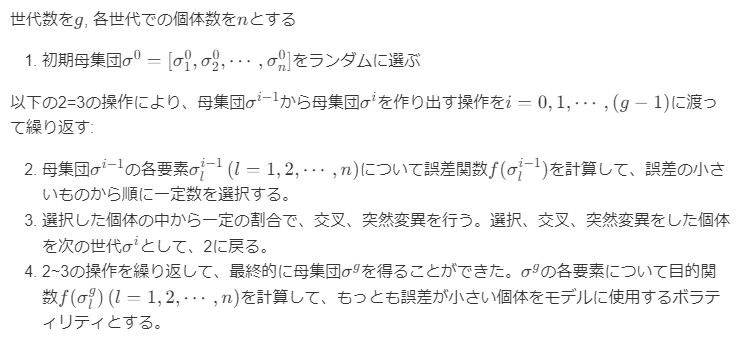
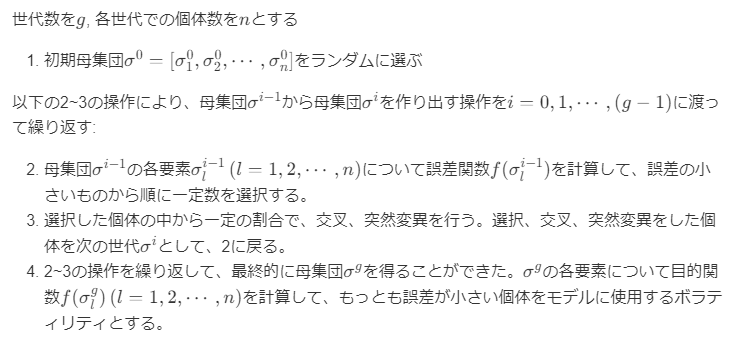
修正

diff --git a/genetic_algorithm.md b/genetic_algorithm.md
@@ -301,20 +301,17 @@ $$d_2 = d_1 - \sigma \sqrt{T}$$  -->
 次のアルゴリズムにより、モデルに使用するボラティリティを求めます
 
 ![](alg_introduction.png)
-<!-- 世代数を$g$, 各世代での個体数を$n$とする
+世代数を$g$, 各世代での個体数を$n$とする
 1. 初期母集団$\sigma^{0} = [\sigma_1^{0}, \sigma_2^{0}, \cdots, \sigma_n^{0}]$をランダムに選ぶ
    
-以下の2=3の操作により、母集団$\sigma^{i-1}$から母集団$\sigma^i$を作り出す操作を$i = 0, 1, \cdots, (g-1)$に渡って繰り返す:
+以下の2\~3の操作により、母集団$\sigma^{i-1}$から母集団$\sigma^i$を作り出す操作を$i = 0, 1, \cdots, (g-1)$に渡って繰り返す:
 
 2. 母集団$\sigma^{i-1}$の各要素$\sigma_l^{i-1}\,(l = 1,2,\cdots, n)$について誤差関数$f(\sigma_l^{i-1})$を計算して、誤差の小さいものから順に一定数を選択する。
 
 3. 選択した個体の中から一定の割合で、交叉、突然変異を行う。選択、交叉、突然変異をした個体を次の世代$\sigma^i$として、2に戻る。
 
-4. 2~3の操作を繰り返して、最終的に母集団$\sigma^g$を得ることができた。$\sigma^g$の各要素について目的関数$f(\sigma_l^g)\,(l=1,2,\cdots, n)$を計算して、もっとも誤差が小さい個体をモデルに使用するボラティリティとする。 -->
+4. 2\~3の操作を繰り返して、最終的に母集団$\sigma^g$を得ることができた。$\sigma^g$の各要素について目的関数$f(\sigma_l^g)\,(l=1,2,\cdots, n)$を計算して、もっとも誤差が小さい個体をモデルに使用するボラティリティとする。 
 
-<!-- モデルのパラメータ$\sigma$を以下の手順で遺伝的アルゴリズムによって求めます。
-
-1. -->
 
 ### 実装例
 ```
